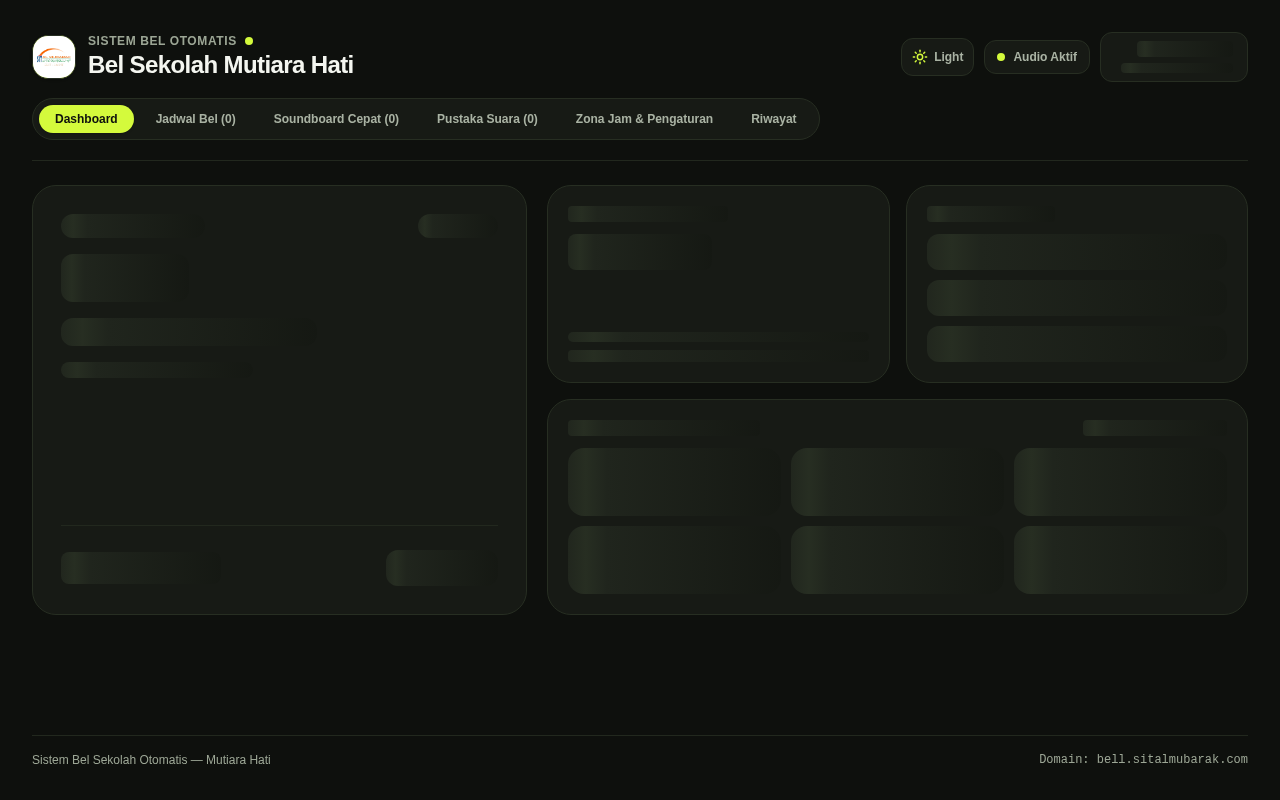
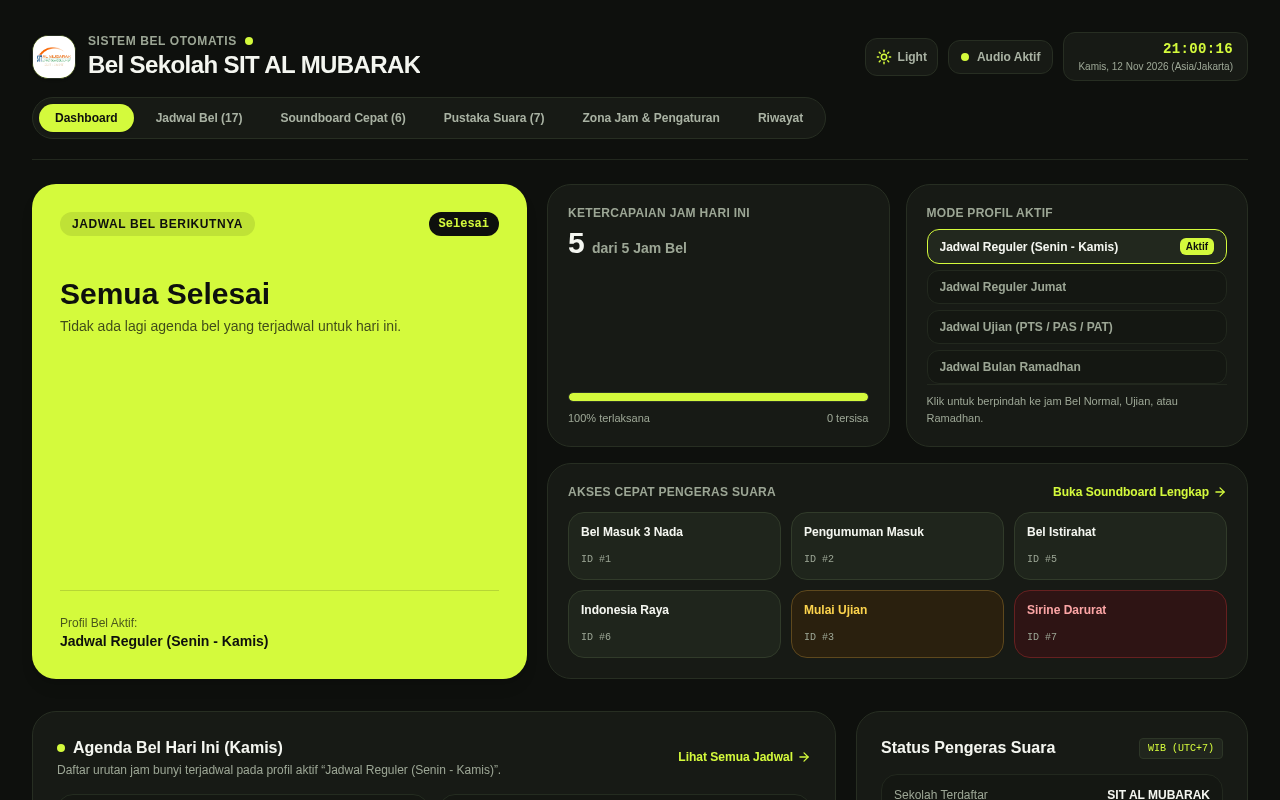
feat(ci): auto-create GitHub Release dengan file MSI & update preview tajam

diff --git a/README.md b/README.md
@@ -16,16 +16,17 @@ Tersedia dalam 2 varian arsitektur:
 
 ## Unduh Aplikasi (Windows MSI Installer)
 
-Installer aplikasi Windows (`.msi`) di-build secara otomatis dan siap diunduh:
+Installer aplikasi Windows (`.msi`) di-build otomatis untuk setiap versi rilis.
 
-👉 **[Klik Di Sini untuk Mengunduh Installer Windows Terbaru](https://github.com/muse727/Bel-Sekolah/actions/runs/20054778330)**
+👉 **[Klik Di Sini untuk Melihat Rilis & Unduh Installer Windows](https://github.com/muse727/Bel-Sekolah/releases)**
 
-### Langkah Cepat Pengunduhan & Instalasi:
-1. Klik link di atas (atau buka tab **[Actions](https://github.com/muse727/Bel-Sekolah/actions)**).
-2. Scroll ke bagian paling bawah di panel **Artifacts**.
-3. Klik file **`bel-sekolah-windows-msi`** (file `.zip` akan otomatis terunduh).
-4. Ekstrak file zip, lalu jalankan file installer `.msi` di komputer Windows.
-5. *Catatan:* Jika muncul peringatan *"Windows protected your PC"*, cukup klik **More info** lalu pilih **Run anyway**.
+### Cara Unduh dari GitHub Actions (Alternatif):
+1. Buka tab **[Actions](https://github.com/muse727/Bel-Sekolah/actions)** di repository ini (pastikan sudah login akun GitHub).
+2. Klik baris build terbaru yang centang hijau.
+3. Scroll ke bagian paling bawah di panel **Artifacts**.
+4. Klik **`bel-sekolah-windows-msi`** untuk mengunduh file zip installer.
+5. Ekstrak dan jalankan file `.msi` di PC/laptop Windows sekolah.
+6. *Catatan:* Jika muncul layar biru *"Windows protected your PC"*, klik **More info** lalu pilih **Run anyway**.
 
 ---
 
